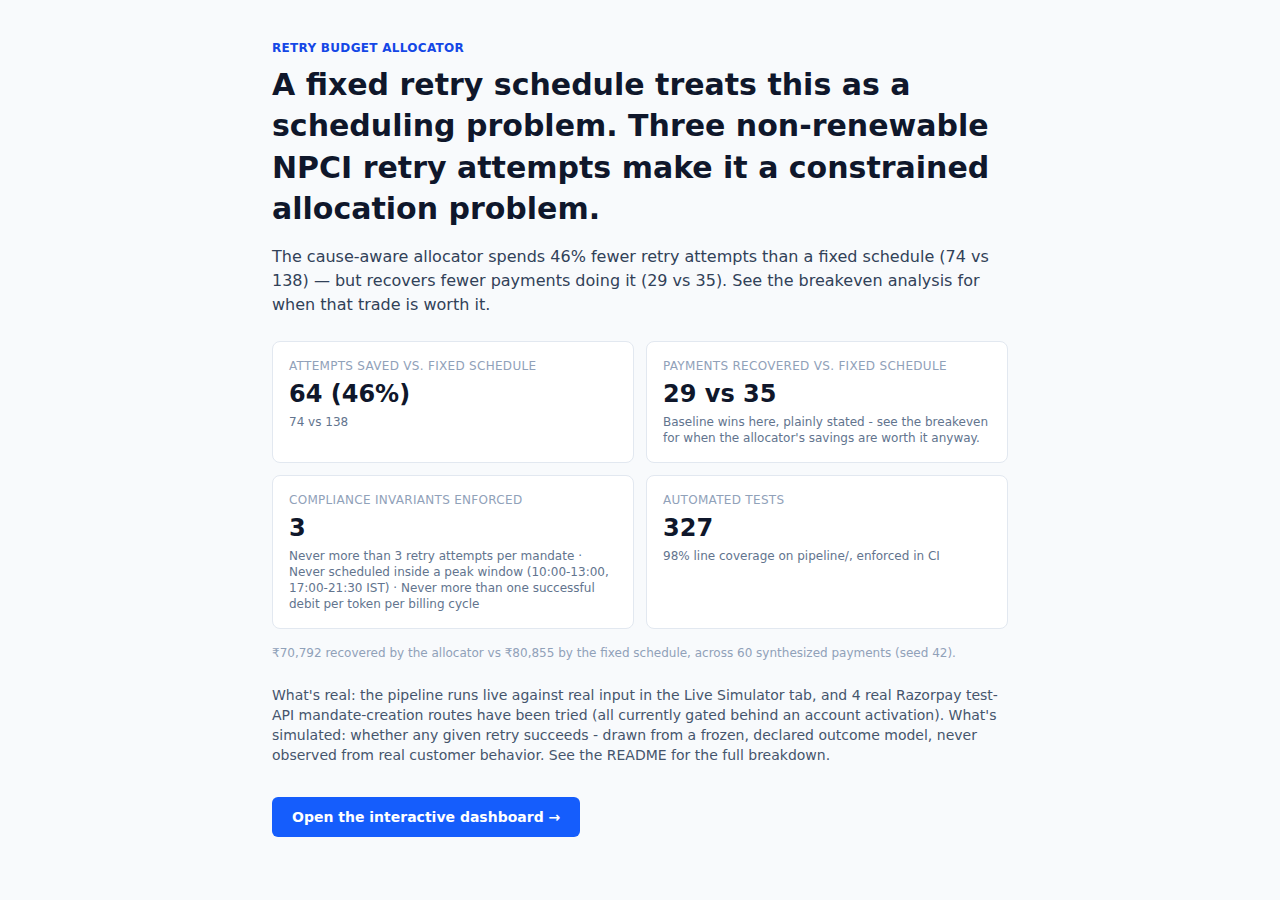
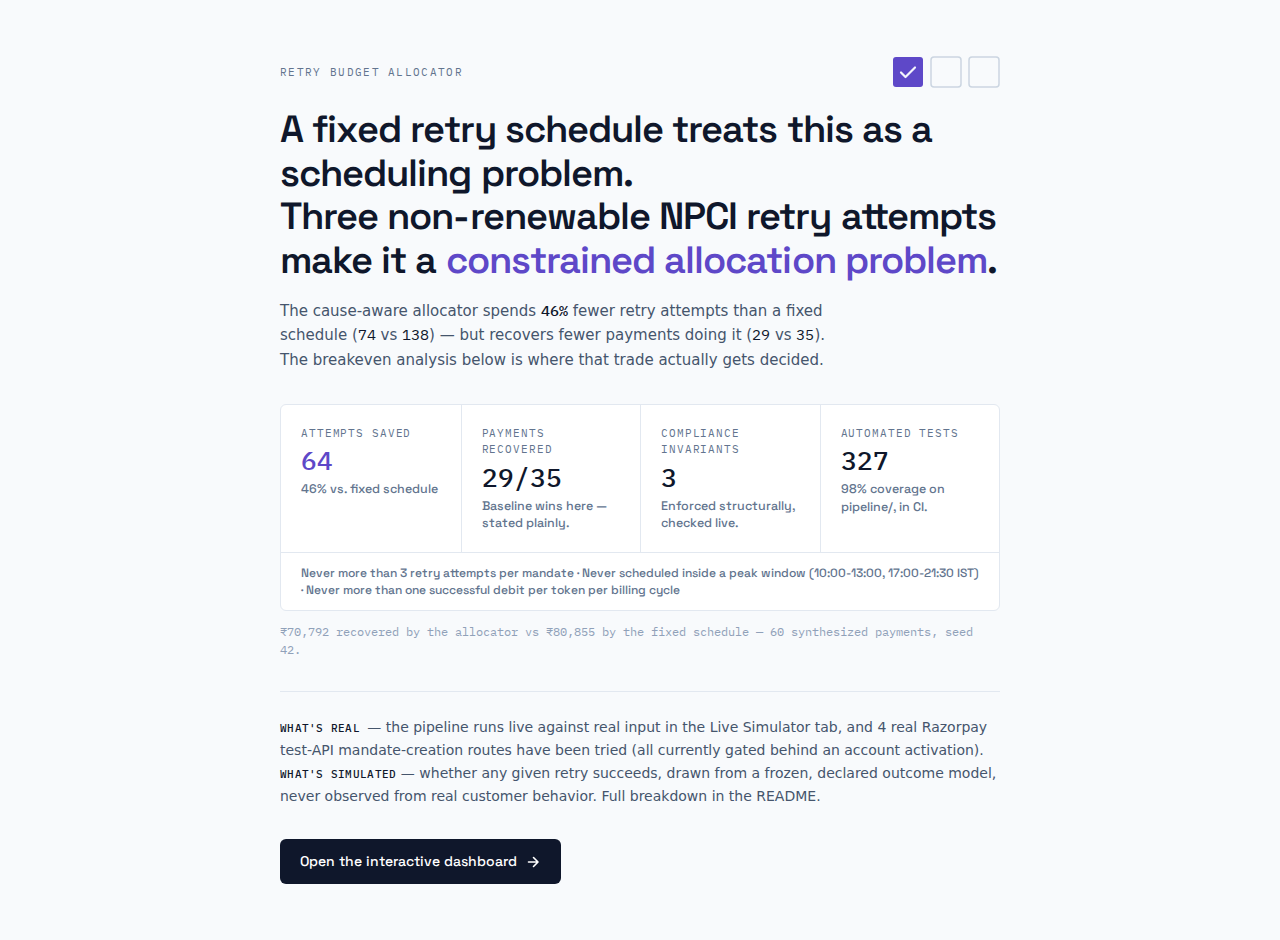
Redesign the landing page with real design intent
The original was a default Tailwind card grid - functional but generic.
Went with a technical developer-tool direction (Linear/Vercel/Stripe-docs
register) since it actually fits the project's own voice: falsifiable
claims, monospace-worthy data, anti-hype.

Space Grotesk for display type, IBM Plex Mono for every numeric value
(ties 'this is real computed data' directly to the typography, not just
the copy) - both via Google Fonts, zero new npm packages. One deliberate
accent (an indigo via oklch, not Tailwind's default blue-600). A small
hand-drawn SVG mark (three token squares, one already spent) gives the
'non-renewable budget' thesis a visual anchor before any text loads.
Stat tiles rebuilt as a bordered data strip with tabular-nums monospace
figures instead of four soft rounded shadow cards - reads like a
terminal/spreadsheet, not a SaaS pricing page.

Checked at phone width per the design skill's own instruction, not just
desktop - caught and fixed a real gap: the 2x2 mobile stat grid had no
divider between rows, so the bottom two tiles read as disconnected from
the top two. Also hit the project's own known WSL/mnt-c HMR issue
(documented in build-log.md) mid-session - the dev server didn't pick up
an edit until restarted; verified the fix was actually live via curl
before re-screenshotting, not just trusting the running server.

Updated docs/images/landing.png to the new design.

Changed region(s): [[0.2188, 0.0311, 0.7812, 0.6844], [0.1875, 0.7156, 0.7812, 0.9644]]

diff --git a/dashboard/src/views/LandingPage.jsx b/dashboard/src/views/LandingPage.jsx
@@ -11,12 +11,40 @@ const COMPLIANCE_INVARIANTS = [
   'Never more than one successful debit per token per billing cycle',
 ]
 
-function StatTile({ label, value, detail }) {
+// Three tokens, one already spent - the thesis in one glance before a
+// single word of copy loads. Not decorative: this is the actual budget
+// the rest of the page is about.
+function AttemptBudgetMark() {
   return (
-    <div className="rounded-lg border border-slate-200 bg-white p-4">
-      <p className="text-xs font-medium uppercase tracking-wide text-slate-400">{label}</p>
-      <p className="mt-1 text-2xl font-semibold text-slate-900">{value}</p>
-      {detail && <p className="mt-1 text-xs text-slate-500">{detail}</p>}
+    <svg width="108" height="32" viewBox="0 0 108 32" fill="none" aria-hidden="true">
+      <rect x="1" y="1" width="30" height="30" rx="3" fill="var(--accent)" />
+      <path d="M9 16.5l4.5 4.5L23 11.5" stroke="var(--accent-ink)" strokeWidth="2.2" strokeLinecap="round" strokeLinejoin="round" />
+      <rect x="39" y="1" width="30" height="30" rx="3" stroke="#cbd5e1" strokeWidth="1.5" />
+      <rect x="77" y="1" width="30" height="30" rx="3" stroke="#cbd5e1" strokeWidth="1.5" />
+    </svg>
+  )
+}
+
+function ArrowIcon() {
+  return (
+    <svg width="16" height="16" viewBox="0 0 16 16" fill="none" aria-hidden="true">
+      <path d="M3.5 8h9M8.5 3.5L13 8l-4.5 4.5" stroke="currentColor" strokeWidth="1.6" strokeLinecap="round" strokeLinejoin="round" />
+    </svg>
+  )
+}
+
+function StatCell({ label, value, detail, accent = false, border = true, topBorderOnMobile = false }) {
+  return (
+    <div
+      className={`p-5 ${border ? 'sm:border-l sm:border-slate-200' : ''} first:border-l-0 ${
+        topBorderOnMobile ? 'border-t border-slate-200 sm:border-t-0' : ''
+      }`}
+    >
+      <p className="font-mono text-[11px] uppercase tracking-[0.08em] text-slate-500">{label}</p>
+      <p className={`mt-1.5 font-mono text-[26px] font-medium leading-none tabular-nums ${accent ? 'text-[var(--accent)]' : 'text-slate-900'}`}>
+        {value}
+      </p>
+      {detail && <p className="mt-2 text-[12.5px] leading-snug text-slate-500">{detail}</p>}
     </div>
   )
 }
@@ -27,73 +55,97 @@ export default function LandingPage({ run, onEnterDashboard }) {
   const allocator = table?.allocator
 
   const attemptsSaved = baseline && allocator ? baseline.attempts_spent - allocator.attempts_spent : null
-  const attemptsSavedPct =
-    baseline && allocator ? Math.round((attemptsSaved / baseline.attempts_spent) * 100) : null
+  const attemptsSavedPct = baseline && allocator ? Math.round((attemptsSaved / baseline.attempts_spent) * 100) : null
 
   return (
-    <div className="mx-auto max-w-3xl px-4 py-10">
-      <p className="text-xs font-semibold uppercase tracking-wide text-blue-700">Retry Budget Allocator</p>
+    <div style={{ fontFamily: 'var(--font-display)' }} className="min-h-screen bg-[#f8fafc]">
+      <div className="mx-auto max-w-3xl px-5 py-14 sm:px-6">
+        <div className="flex items-center justify-between gap-4">
+          <p className="font-mono text-[11px] uppercase tracking-[0.12em] text-slate-500">Retry Budget Allocator</p>
+          <AttemptBudgetMark />
+        </div>
 
-      <h1 className="mt-2 text-3xl font-semibold leading-snug text-slate-900">
-        A fixed retry schedule treats this as a scheduling problem. Three
-        non-renewable NPCI retry attempts make it a constrained allocation
-        problem.
-      </h1>
+        <h1 className="mt-5 text-[2rem] font-semibold leading-[1.15] tracking-tight text-slate-900 sm:text-[2.375rem]">
+          A fixed retry schedule treats this as a scheduling problem.
+          <br className="hidden sm:block" /> Three non-renewable NPCI retry
+          attempts make it a <span className="text-[var(--accent)]">constrained allocation problem</span>.
+        </h1>
 
-      <p className="mt-4 text-base text-slate-700">
-        {baseline && allocator ? (
-          <>
-            The cause-aware allocator spends {attemptsSavedPct}% fewer retry
-            attempts than a fixed schedule ({allocator.attempts_spent} vs{' '}
-            {baseline.attempts_spent}) — but recovers fewer payments doing it
-            ({allocator.payments_recovered} vs {baseline.payments_recovered}).
-            See the breakeven analysis for when that trade is worth it.
-          </>
-        ) : (
-          'Loading the batch result…'
-        )}
-      </p>
-
-      <div className="mt-6 grid grid-cols-2 gap-3 sm:grid-cols-2">
-        <StatTile
-          label="Attempts saved vs. fixed schedule"
-          value={attemptsSaved !== null ? `${attemptsSaved} (${attemptsSavedPct}%)` : '—'}
-          detail={baseline && allocator ? `${allocator.attempts_spent} vs ${baseline.attempts_spent}` : null}
-        />
-        <StatTile
-          label="Payments recovered vs. fixed schedule"
-          value={allocator && baseline ? `${allocator.payments_recovered} vs ${baseline.payments_recovered}` : '—'}
-          detail="Baseline wins here, plainly stated - see the breakeven for when the allocator's savings are worth it anyway."
-        />
-        <StatTile
-          label="Compliance invariants enforced"
-          value={COMPLIANCE_INVARIANTS.length}
-          detail={COMPLIANCE_INVARIANTS.join(' · ')}
-        />
-        <StatTile label="Automated tests" value={TEST_COUNT} detail="98% line coverage on pipeline/, enforced in CI" />
-      </div>
-
-      {baseline && allocator && (
-        <p className="mt-4 text-xs text-slate-400">
-          {formatMoney(allocator.amount_recovered_paise)} recovered by the allocator vs{' '}
-          {formatMoney(baseline.amount_recovered_paise)} by the fixed schedule, across {run.n} synthesized
-          payments (seed {run.seed}).
+        <p style={{ fontFamily: 'ui-sans-serif, system-ui, sans-serif' }} className="mt-4 max-w-xl text-[15px] leading-relaxed text-slate-600">
+          {baseline && allocator ? (
+            <>
+              The cause-aware allocator spends{' '}
+              <span className="font-mono font-medium text-slate-900">{attemptsSavedPct}%</span> fewer retry attempts
+              than a fixed schedule (
+              <span className="font-mono tabular-nums text-slate-900">{allocator.attempts_spent}</span> vs{' '}
+              <span className="font-mono tabular-nums text-slate-900">{baseline.attempts_spent}</span>) — but recovers
+              fewer payments doing it (
+              <span className="font-mono tabular-nums text-slate-900">{allocator.payments_recovered}</span> vs{' '}
+              <span className="font-mono tabular-nums text-slate-900">{baseline.payments_recovered}</span>). The
+              breakeven analysis below is where that trade actually gets decided.
+            </>
+          ) : (
+            'Loading the batch result…'
+          )}
         </p>
-      )}
 
-      <p className="mt-6 text-sm text-slate-600">
-        What's real: the pipeline runs live against real input in the Live Simulator tab, and 4 real Razorpay
-        test-API mandate-creation routes have been tried (all currently gated behind an account activation). What's
-        simulated: whether any given retry succeeds - drawn from a frozen, declared outcome model, never observed
-        from real customer behavior. See the README for the full breakdown.
-      </p>
+        <div className="mt-8 overflow-hidden rounded-md border border-slate-200 bg-white">
+          <div className="grid grid-cols-2 sm:grid-cols-4">
+            <StatCell
+              label="Attempts saved"
+              value={attemptsSaved !== null ? `${attemptsSaved}` : '—'}
+              detail={attemptsSavedPct !== null ? `${attemptsSavedPct}% vs. fixed schedule` : null}
+              accent
+              border={false}
+            />
+            <StatCell
+              label="Payments recovered"
+              value={allocator && baseline ? `${allocator.payments_recovered}/${baseline.payments_recovered}` : '—'}
+              detail="Baseline wins here — stated plainly."
+            />
+            <StatCell
+              label="Compliance invariants"
+              value={COMPLIANCE_INVARIANTS.length}
+              detail="Enforced structurally, checked live."
+              topBorderOnMobile
+            />
+            <StatCell label="Automated tests" value={TEST_COUNT} detail="98% coverage on pipeline/, in CI." topBorderOnMobile />
+          </div>
+          <div className="border-t border-slate-200 px-5 py-3">
+            <p className="text-[12px] leading-snug text-slate-500">
+              {COMPLIANCE_INVARIANTS.join('  ·  ')}
+            </p>
+          </div>
+        </div>
 
-      <button
-        onClick={onEnterDashboard}
-        className="mt-8 rounded-md bg-blue-600 px-5 py-2.5 text-sm font-semibold text-white transition hover:bg-blue-700"
-      >
-        Open the interactive dashboard →
-      </button>
+        {baseline && allocator && (
+          <p className="mt-3 font-mono text-[12px] tabular-nums text-slate-400">
+            {formatMoney(allocator.amount_recovered_paise)} recovered by the allocator vs {formatMoney(baseline.amount_recovered_paise)} by
+            the fixed schedule — {run.n} synthesized payments, seed {run.seed}.
+          </p>
+        )}
+
+        <div className="mt-8 border-t border-slate-200 pt-6">
+          <p style={{ fontFamily: 'ui-sans-serif, system-ui, sans-serif' }} className="text-[14px] leading-relaxed text-slate-600">
+            <span className="font-mono text-[11px] font-medium uppercase tracking-wide text-slate-900">What&apos;s real </span>
+            — the pipeline runs live against real input in the Live Simulator tab, and 4 real Razorpay test-API
+            mandate-creation routes have been tried (all currently gated behind an account activation).{' '}
+            <span className="font-mono text-[11px] font-medium uppercase tracking-wide text-slate-900">What&apos;s simulated</span> — whether
+            any given retry succeeds, drawn from a frozen, declared outcome model, never observed from real customer
+            behavior. Full breakdown in the README.
+          </p>
+        </div>
+
+        <button
+          onClick={onEnterDashboard}
+          className="group mt-8 inline-flex items-center gap-2 rounded-md bg-slate-900 px-5 py-3 text-[14px] font-medium text-white transition hover:bg-[var(--accent)]"
+        >
+          Open the interactive dashboard
+          <span className="transition-transform group-hover:translate-x-0.5">
+            <ArrowIcon />
+          </span>
+        </button>
+      </div>
     </div>
   )
 }

diff --git a/dashboard/index.html b/dashboard/index.html
@@ -5,6 +5,12 @@
     <link rel="icon" type="image/svg+xml" href="/favicon.svg" />
     <meta name="viewport" content="width=device-width, initial-scale=1.0" />
     <title>Retry Budget Allocator</title>
+    <link rel="preconnect" href="https://fonts.googleapis.com" />
+    <link rel="preconnect" href="https://fonts.gstatic.com" crossorigin />
+    <link
+      href="https://fonts.googleapis.com/css2?family=Space+Grotesk:wght@500;600;700&family=IBM+Plex+Mono:wght@400;500;600&display=swap"
+      rel="stylesheet"
+    />
   </head>
   <body>
     <div id="root"></div>

diff --git a/dashboard/src/index.css b/dashboard/src/index.css
@@ -1,5 +1,13 @@
 @import "tailwindcss";
 
+:root {
+  --font-display: "Space Grotesk", ui-sans-serif, system-ui, sans-serif;
+  --font-mono: "IBM Plex Mono", ui-monospace, "SFMono-Regular", Menlo, monospace;
+  /* One accent, one hue - a deliberate indigo, not Tailwind's default blue-600. */
+  --accent: oklch(0.5 0.19 285);
+  --accent-ink: oklch(0.97 0.01 285);
+}
+
 body {
   background: #f8fafc;
   color: #0f172a;
